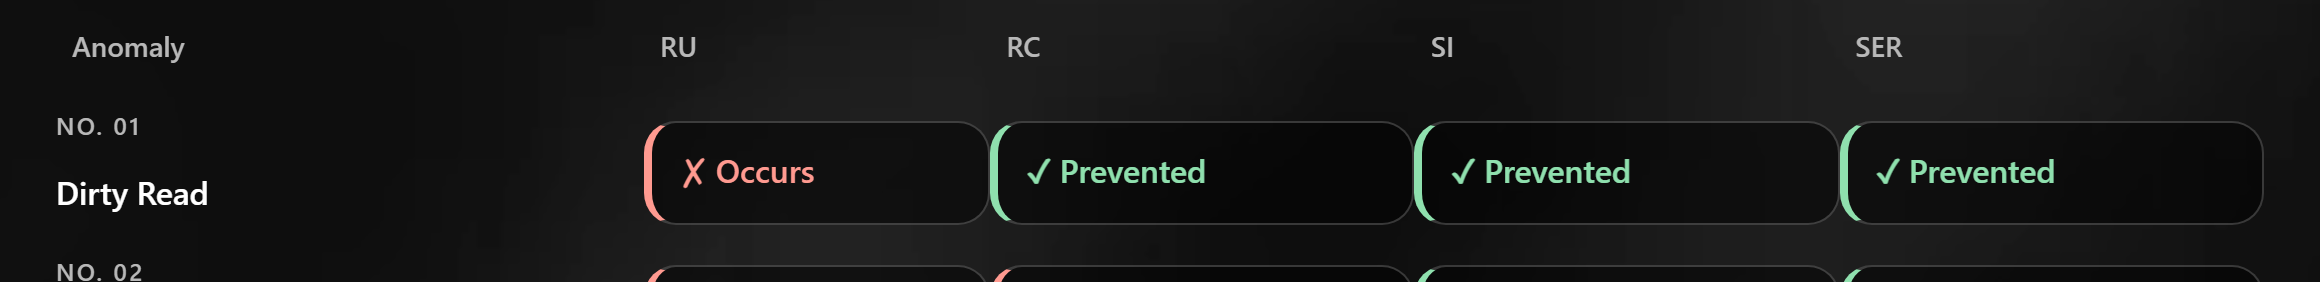
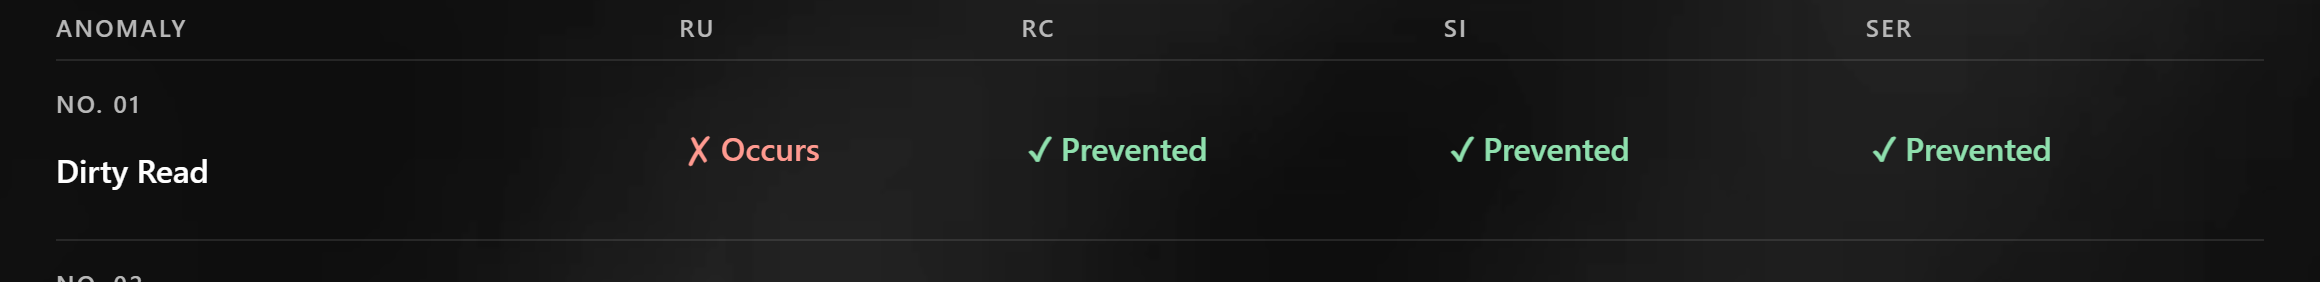
web: minimal habitat map (plain cells, hairline row dividers, soft hover pill)
Drops the boxed cells and heavy left bars; the glyph and word still carry every outcome. Phone cards keep a small tile. Map still regenerated.

diff --git a/web/components/HabitatMap.tsx b/web/components/HabitatMap.tsx
@@ -10,15 +10,15 @@ export function HabitatMap({ data }: { data: HomeData }) {
   return (
     <>
       <div className="hidden sm:block">
-        <table className="w-full border-separate border-spacing-y-2 text-left" data-testid="habitat-map">
+        <table className="w-full border-collapse text-left" data-testid="habitat-map">
           <caption className="sr-only">Habitat map: each concurrency bug against each isolation level. Choose a cell to replay that run.</caption>
           <thead>
             <tr>
-              <th scope="col" className="px-2 pb-1 text-sm font-semibold text-muted">
+              <th scope="col" className="pb-2 text-xs font-medium uppercase tracking-widest text-muted">
                 Anomaly
               </th>
               {LEVELS.map((lv) => (
-                <th key={lv} scope="col" className="px-2 pb-1 text-sm font-semibold text-muted">
+                <th key={lv} scope="col" className="px-3 pb-2 text-xs font-medium uppercase tracking-widest text-muted">
                   <abbr title={LEVEL_NAMES[lv]} className="no-underline">
                     {lv}
                   </abbr>
@@ -30,14 +30,14 @@ export function HabitatMap({ data }: { data: HomeData }) {
           <tbody>
             {data.rows.map((row, i) => (
               <tr key={row.id}>
-                <th scope="row" className="pr-3 align-middle font-semibold">
+                <th scope="row" className="py-3 pr-3 align-middle font-medium">
                   <span className="eyebrow mb-0.5 block">No. {String(i + 1).padStart(2, "0")}</span>
                   <a href={`/anomalies/${row.id}`} className="inline-flex min-h-11 items-center text-fg">
                     {row.name}
                   </a>
                 </th>
                 {row.cells.map((c) => (
-                  <td key={c.level} className="align-middle">
+                  <td key={c.level} className="py-2 align-middle">
                     <a
                       href={c.href}
                      

diff --git a/web/app/globals.css b/web/app/globals.css
@@ -244,22 +244,24 @@ select.btn option { background: var(--surface); color: var(--fg); }
 /* ---------- habitat map ---------- */
 .map-cell {
   display: flex;
-  flex-direction: column;
-  align-items: flex-start;
-  justify-content: center;
-  gap: 0.15rem;
-  min-height: 3.25rem;
-  padding: 0.5rem 0.9rem;
-  border: 1px solid var(--rim);
-  border-left: 4px solid var(--tone);
-  border-radius: 1rem;
-  background: rgb(0 0 0 / 0.5);
+  align-items: center;
+  gap: 0.5rem;
+  min-height: 2.75rem;
+  padding: 0.4rem 0.9rem;
+  border: 1px solid transparent;
+  border-radius: 999px;
+  background: none;
   color: var(--fg);
   text-decoration: none;
   position: relative;
   transition: background-color 150ms ease, border-color 150ms ease;
 }
-.map-cell:hover, .map-cell:focus-visible { background: rgb(255 255 255 / 0.12); border-color: rgb(255 255 255 / 0.45); border-left-color: var(--tone); }
+.map-cell:hover, .map-cell:focus-visible { background: rgb(255 255 255 / 0.07); border-color: var(--rim); }
+/* A hairline between rows is the only structure the map needs. */
+[data-testid="habitat-map"] tbody tr + tr > * { border-top: 1px solid rgb(255 255 255 / 0.1); }
+[data-testid="habitat-map"] tbody tr:first-child > * { border-top: 1px solid rgb(255 255 255 / 0.1); }
+/* Phone cards keep a small framed tile, because each one also carries the level code and the mechanism. */
+.map-card .map-cell { flex-direction: column; align-items: flex-start; justify-content: center; gap: 0.15rem; border-color: var(--rim); border-radius: 1rem; background: rgb(0 0 0 / 0.4); }
 .map-cell .mech {
   display: none;
   position: absolute;
